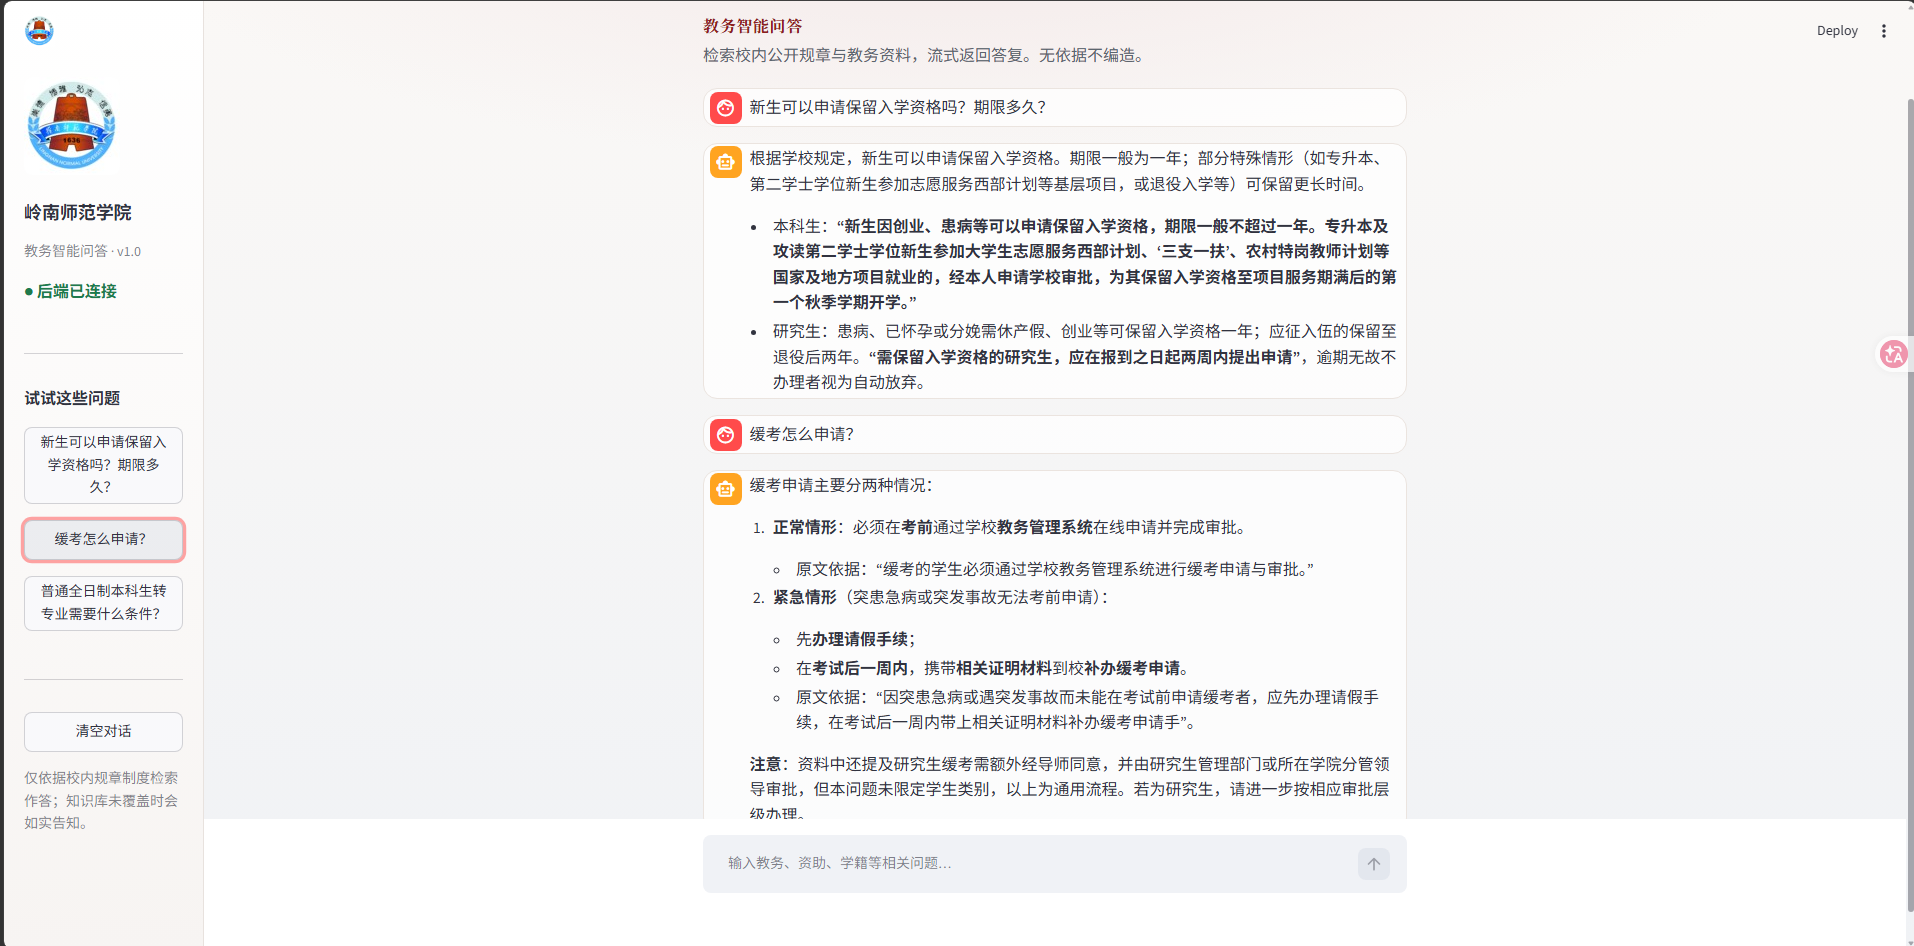
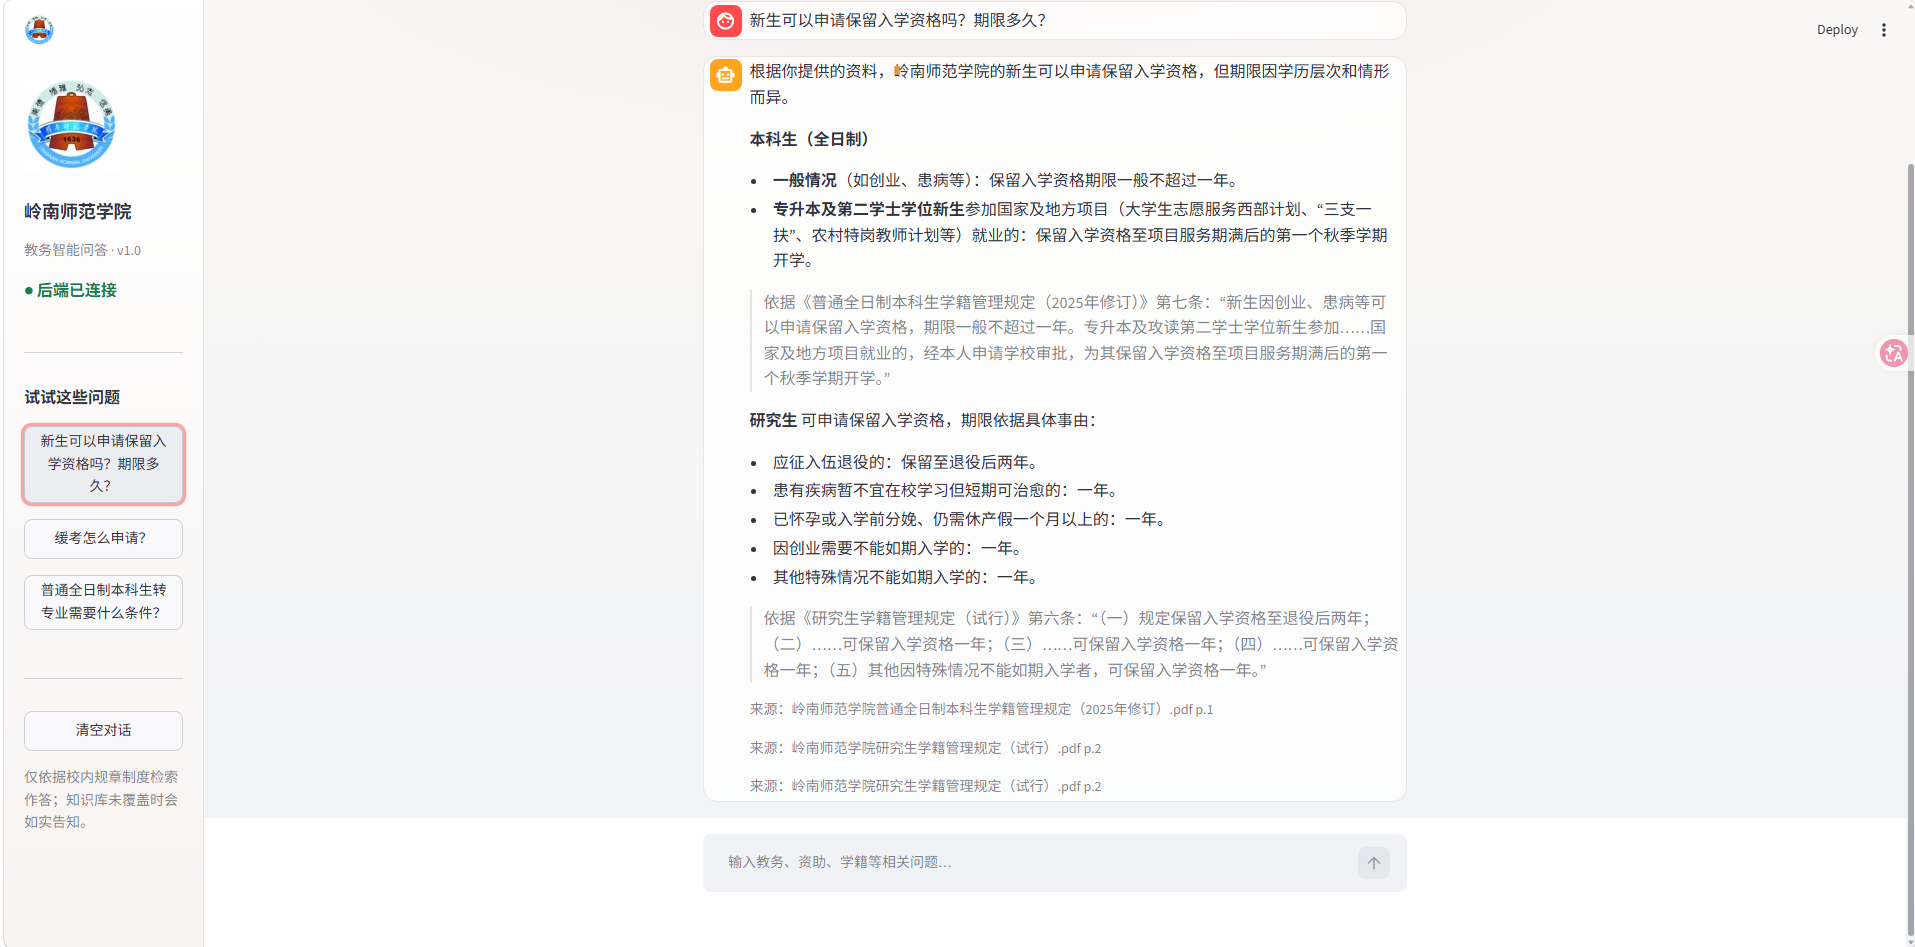
feat: parse streamed sources in frontend and update demo docs

diff --git a/frontend/api/client.py b/frontend/api/client.py
@@ -1,6 +1,18 @@
+from dataclasses import dataclass,field
 import httpx
-
+import json
 from frontend.config import CHAT_URL, HEALTH_URL
+SOURCE_SEP = "\n\n<!--SOURCES-->\n"
+
+
+@dataclass
+class StreamResult:
+    sources:list = field(default_factory=list)
+
+
+
+
+
 
 
 def check_backend() -> bool:
@@ -12,13 +24,47 @@ def check_backend() -> bool:
 
 
 def stream_from_backend(question: str):
-    with httpx.Client(timeout=None) as client:
-        with client.stream(
-            "POST",
-            CHAT_URL,
-            json={"question": question},
-        ) as response:
-            response.raise_for_status()
-            for chunk in response.iter_text():
-                if chunk:
-                    yield chunk
+
+    result = StreamResult()
+    def gen():
+        pending=""
+        reading_sources = False
+        raw = ""
+        
+        with httpx.Client(timeout = None) as client:
+            with client.stream("POST",CHAT_URL,json={"question":question}) as response:
+                response.raise_for_status()
+                for chunk in response.iter_text():
+                    if not chunk:
+                        continue
+
+                    if reading_sources:
+                        raw += chunk
+                        continue
+
+                    pending += chunk
+
+                    if SOURCE_SEP in pending:
+                        answer_part,raw = pending.split(SOURCE_SEP,1)
+                        if answer_part:
+                            yield answer_part
+
+                        reading_sources = True
+
+                    else:
+                        keep = len(SOURCE_SEP) - 1
+                        if len(pending) > keep:
+                            yield pending[:-keep]
+                            pending = pending[-keep:]
+
+
+        result.sources = json.loads(raw) if raw.strip() else []
+
+    return gen(),result
+
+   
+
+            
+
+                    
+

diff --git a/README.md b/README.md
@@ -13,10 +13,10 @@
 
 ## 项目亮点
 
-1. **检索链路完整**：PDF 入库 → Recursive 切块 → BGE Embedding → Chroma → Hybrid（向量 + BM25 + RRF）→ `bge-reranker-v2-m3` 精排 → Prompt 约束 → DeepSeek 流式生成  
+1. **检索链路完整**：PDF 按页入库 → Recursive 切块 → BGE Embedding → Chroma → Hybrid（向量 + BM25 + RRF）→ `bge-reranker-v2-m3` 精排 → Prompt 约束 → DeepSeek 流式生成，并回传来源页码  
 2. **有对照实验，不只调通**：用 15 道自建题 + Ragas，对比有无 Rerank；Context Precision 从约 **0.67 提升到 0.90**  
 3. **拒答行为有回归集**：另建 15 题（该答 / 该拒 / 部分答），人工记误拒与幻觉；当前 **误拒 1、幻觉 0**，不单凭感觉调 Prompt  
-4. **前后端可演示**：Streamlit 通过 `httpx` 调用 FastAPI `POST /chat/stream`，资料不足时要求模型拒答，减轻幻觉
+4. **前后端可演示**：Streamlit 通过 `httpx` 调用 FastAPI `POST /chat/stream`，流式返回答案并展示 PDF 来源 / 页码；资料不足时要求模型拒答，减轻幻觉
 
 ### Ragas 评估结果（15 题）
 
@@ -65,19 +65,22 @@
     │  httpx stream  POST /chat/stream
     ▼
 FastAPI  chat router
-    │  rag_chain.astream(question)
+    │  同一批 hits：生成答案 + 附加来源元数据
     ▼
-Hybrid 检索（Chroma 向量 + BM25 + RRF）→ Top10 候选
+Hybrid 检索（Chroma 向量 + BM25 + RRF）→ Top10 候选（含 source / page）
     ▼
-Rerank（bge-reranker-v2-m3）→ Top3 上下文
+Rerank（bge-reranker-v2-m3）→ Top3 hit
     ▼
-Prompt（仅依据检索资料作答）→ DeepSeek 流式生成 → 前端输出
+Prompt（仅依据检索资料作答）→ DeepSeek 流式生成
+    ▼
+前端：流式展示答案 → 解析来源 JSON → 显示 PDF 名与页码
 ```
 
 **离线入库（一次构建知识库）：**
 
 ```text
-data/pdfs → 抽文本 → Recursive 切块(256/50) → BGE Embedding → chroma_db
+data/pdfs → 按页抽文本 → Recursive 切块(256/50) → BGE Embedding
+         → chroma_db（metadata: source, page）
 ```
 
 ---
@@ -89,15 +92,16 @@ data/pdfs → 抽文本 → Recursive 切块(256/50) → BGE Embedding → chrom
 | **RAG 闭环** | 入库 → 切块 → Embedding → 检索 → 精排 → 生成 |
 | **混合检索** | 稠密向量 + `rank_bm25`，RRF 融合；中文分词用 jieba |
 | **二次精排** | Hybrid Top10 → `bge-reranker-v2-m3` → Top3，改善「相关块在池中但排得偏后」 |
-| **流式接口** | `POST /chat/stream`，前端不直连大模型 SDK |
+| **流式接口** | `POST /chat/stream`，答案流式输出后附带来源 JSON（PDF 名 / 页码 / 片段） |
+| **可溯源展示** | 前端解析同一批检索 hit，在回答下方展示出处，避免模型自行编造来源 |
 | **对照实验** | 切块 / Hybrid / Rerank / Ragas / 拒答小金标，见 `docs/` 与 `evaluation/` |
 | **附带能力** | FastAPI 分层、JWT 登录、MySQL、Redis 缓存（非 RAG 主线，见[附录](#附录用户接口请求生命周期)） |
 
 ### 运行截图
 
-**Streamlit 问答界面**
+**Streamlit 问答界面（答案 + PDF 来源 / 页码）**
 
-![Streamlit 正常问答演示](./image/streamlit.png)
+![Streamlit 问答演示：流式回答并展示规章来源](./image/streamlit.png)
 
 **FastAPI Swagger（/docs）**
 
@@ -239,7 +243,7 @@ curl -N -X POST http://127.0.0.1:8000/chat/stream ^
 | 方法 | 路径 | 说明 |
 |------|------|------|
 | GET | `/health` | 健康检查 |
-| POST | `/chat/stream` | RAG 流式问答（主接口） |
+| POST | `/chat/stream` | RAG 流式问答（主接口；答案后附带来源 JSON） |
 | POST | `/user` | 用户注册 |
 | GET | `/user/{id}` | 按 id 查询（Redis 缓存） |
 | GET | `/user` | 用户分页列表 |
